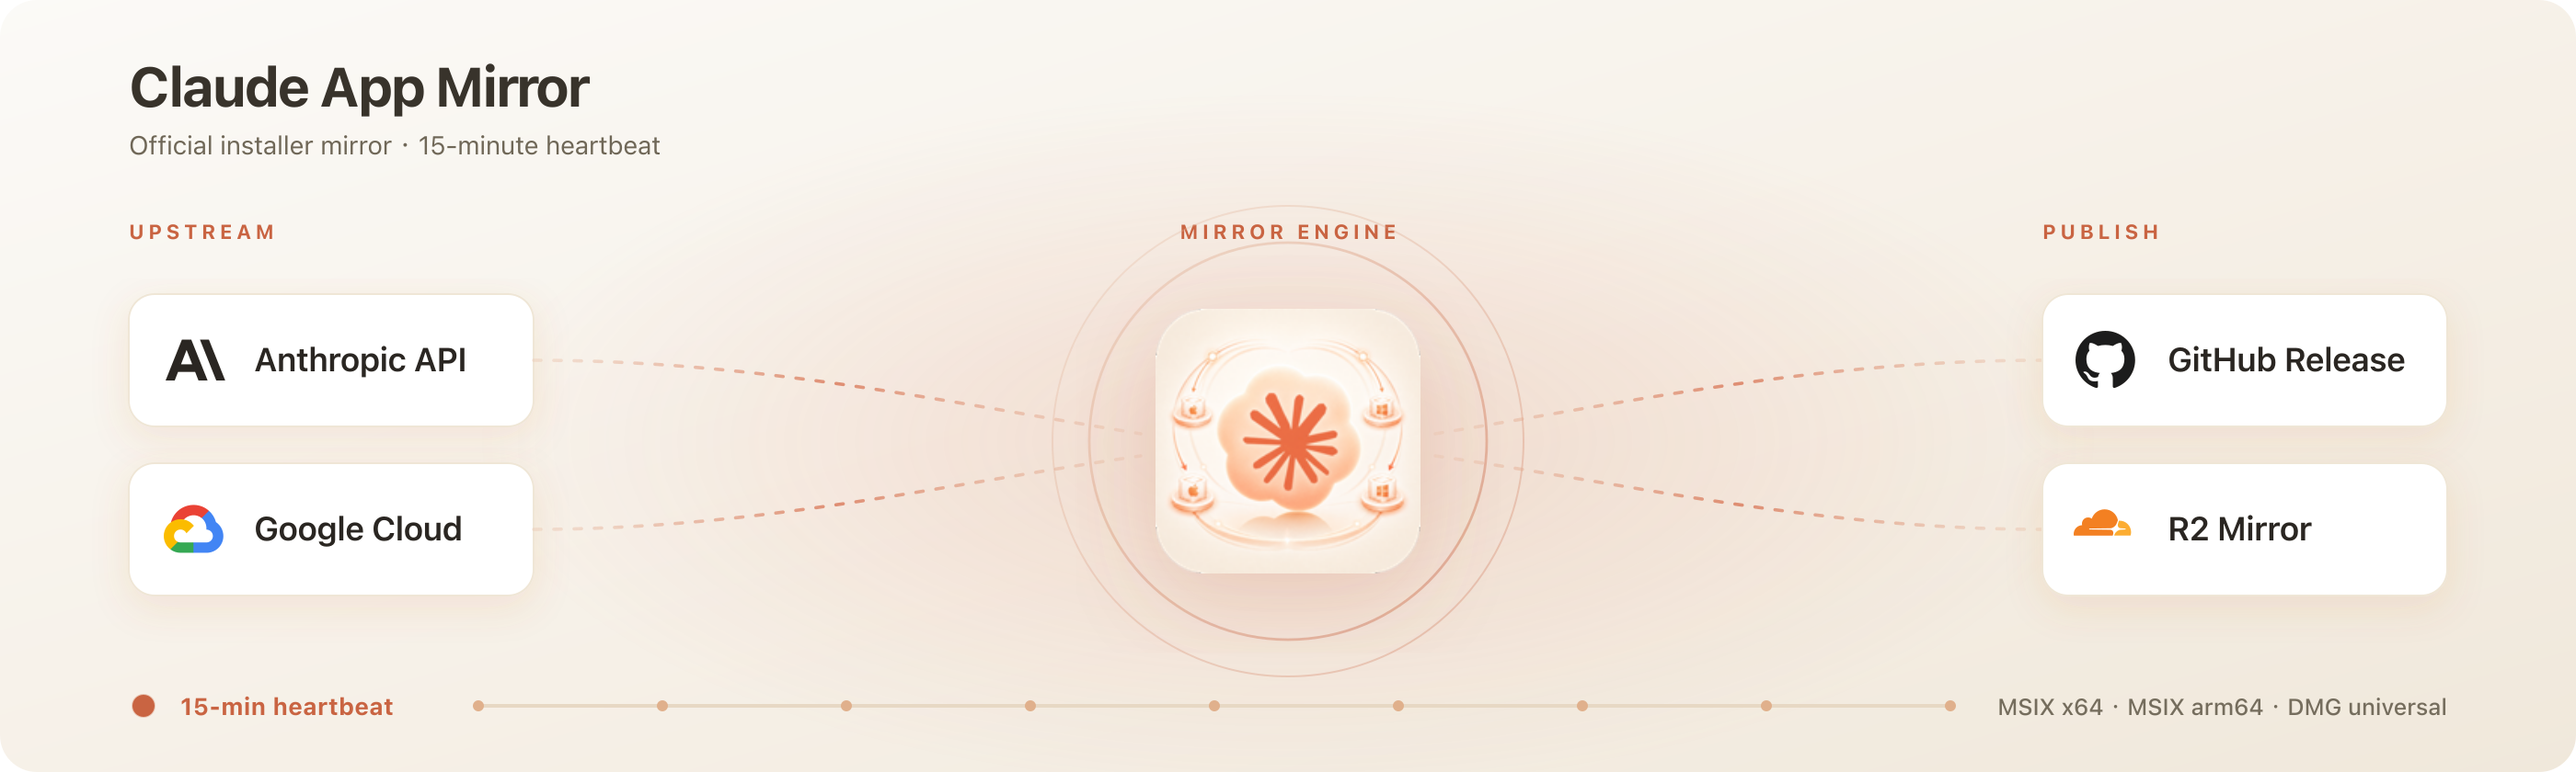
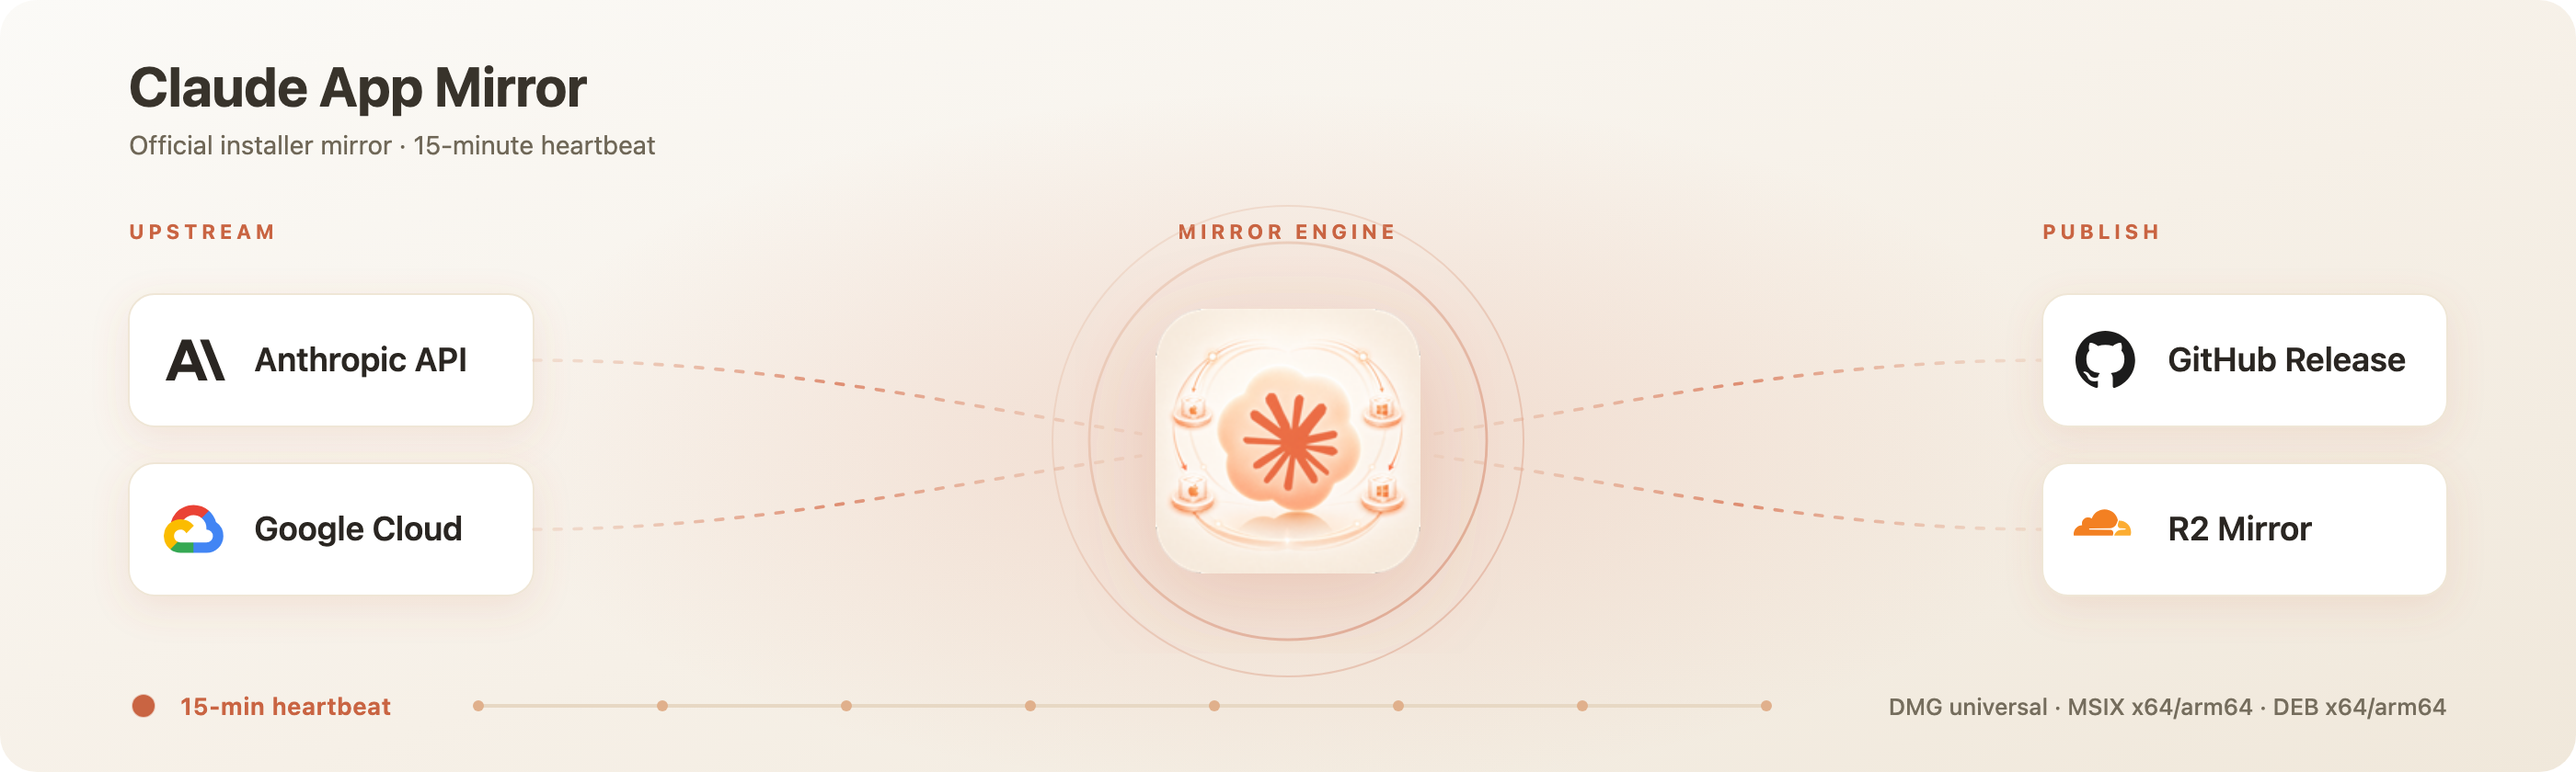
feat: mirror Linux deb installers (x64 and arm64) (#7)
Anthropic now ships an official Linux desktop app (beta) as a .deb for
x64 and arm64. The update API serves it through the same redirect shape
as the other platforms:
api.anthropic.com/api/desktop/linux/<arch>/deb/latest/redirect

- probe the two Linux endpoints and record them under sources.linux in
  the manifest, so they take part in the change fingerprint
- download, checksum and publish Claude-linux-x64.deb and
  Claude-linux-arm64.deb together with the existing assets
- sync latest/linux-x64 and latest/linux-arm64 to R2, and count them in
  the cumulative download badge
- document the Linux packages in the README, release notes and banner

diff --git a/README.md b/README.md
@@ -19,12 +19,13 @@
   <a href="https://github.com/Wangnov/claude-app-mirror/actions/workflows/mirror.yml"><img src="https://img.shields.io/badge/polling-every%2015%20minutes-2ea44f" alt="15 minute polling"></a>
   <a href="https://github.com/Wangnov/claude-app-mirror/releases/latest"><img src="https://img.shields.io/badge/macOS-universal-D97757?logo=apple&logoColor=white" alt="macOS universal"></a>
   <a href="https://github.com/Wangnov/claude-app-mirror/releases/latest"><img src="https://img.shields.io/badge/Windows-x64%20%7C%20arm64%20MSIX-0078d4?logo=windows&logoColor=white" alt="Windows x64 and arm64 MSIX"></a>
+  <a href="https://github.com/Wangnov/claude-app-mirror/releases/latest"><img src="https://img.shields.io/badge/Linux-x64%20%7C%20arm64%20deb-FCC624?logo=linux&logoColor=black" alt="Linux x64 and arm64 deb"></a>
   <a href="https://linux.do/"><img src="https://img.shields.io/badge/LINUX%20DO-community-f0a020?logo=discourse&logoColor=white" alt="LINUX DO community"></a>
   <a href="./LICENSE"><img src="https://img.shields.io/github/license/Wangnov/claude-app-mirror?label=license&color=D97757" alt="License"></a>
 </p>
 
 <p align="center">
-  GitHub Release · Cloudflare R2 short links · macOS DMG · Windows MSIX · checksums · release manifest
+  GitHub Release · Cloudflare R2 short links · macOS DMG · Windows MSIX · Linux deb · checksums · release manifest
 </p>
 
 <p align="center">
@@ -46,6 +47,8 @@
 - macOS 通用包（Apple Silicon + Intel）：`Claude-mac-universal.dmg`
 - Windows x64：`Claude-win-x64.msix`
 - Windows arm64：`Claude-win-arm64.msix`
+- Linux x64：`Claude-linux-x64.deb`
+- Linux arm64：`Claude-linux-arm64.deb`
 - `SHA256SUMS.txt`：本次 Release 内所有资产的校验和
 - `release-manifest.json`：本次探测到的上游指纹（版本、URL、内容哈希、大小）
 
@@ -53,16 +56,18 @@
 
 官网 Windows 下载按钮给的 `ClaudeSetup.exe`（约 7MB）并不是自包含安装包，而是一个 **在线引导器**：运行时它会再去 `downloads.claude.ai`（GCS）下载真正的 ~220MB MSIX 再本地安装，且下载基址写死在已签名二进制里、会校验签名，无法重定向到镜像。所以镜像这个 exe 对国内场景没有意义。本项目改为直接镜像 **自包含、可离线安装** 的 `.msix`（Windows）与 `.dmg`（macOS）。
 
-## 没有 Linux
+## 关于 Linux
 
-Claude 官方没有 Linux 桌面客户端（官方更新接口对 linux 平台直接返回 `400 Platform must be darwin or win32`，官方推荐 Linux 用户使用 Claude Code CLI）。因此本项目不包含 Linux 产物。
+官方 Linux 桌面端目前处于 beta 阶段，提供 `.deb` 安装包（x64 与 arm64），适用于 Ubuntu 22.04 及以上、Debian 12 及以上，本项目一并镜像。官方文档见 [Claude Desktop on Linux (beta)](https://code.claude.com/docs/en/desktop-linux)。
+
+Linux 版不会自更新。官方的升级方式是通过 Anthropic 的 apt 源，这个源同样托管在 `downloads.claude.ai`，国内经常无法访问或被限速，本项目不代理它。按官方文档，安装 `.deb` 时会同时注册这个 apt 源。如果不想在 `apt update` 时看到该源的连接错误，可以在安装前创建 `/etc/default/claude-desktop`，写入一行 `CLAUDE_DESKTOP_ADD_REPO="false"`。之后有新版本时，回到本镜像下载新的 `.deb` 重新安装即可。
 
 ## 版本号说明
 
-macOS 与 Windows 当前来自同一发布、版本号锁步一致（例如 `1.9659.2`）。Release tag 形如：
+macOS、Windows 与 Linux 当前来自同一发布、版本号锁步一致（例如 `2.9939.4`）。Release tag 形如：
 
 ```text
-claude-app-v1.9659.2
+claude-app-v2.9939.4
 ```
 
 版本号取自官方更新接口返回的 `currentRelease`，与安装包路径中的版本段一致。
@@ -74,12 +79,16 @@ claude-app-v1.9659.2
 - macOS：`Claude-mac-universal.dmg`
 - Windows x64：`Claude-win-x64.msix`
 - Windows arm64：`Claude-win-arm64.msix`
+- Linux x64：`Claude-linux-x64.deb`
+- Linux arm64：`Claude-linux-arm64.deb`
 
 也可以直接使用 R2 短链接（面向国内网络，只保留最新版）：
 
 - macOS：[https://claudeapp.agentsmirror.com/latest/mac](https://claudeapp.agentsmirror.com/latest/mac)
 - Windows x64：[https://claudeapp.agentsmirror.com/latest/win-x64](https://claudeapp.agentsmirror.com/latest/win-x64)
 - Windows arm64：[https://claudeapp.agentsmirror.com/latest/win-arm64](https://claudeapp.agentsmirror.com/latest/win-arm64)
+- Linux x64：[https://claudeapp.agentsmirror.com/latest/linux-x64](https://claudeapp.agentsmirror.com/latest/linux-x64)
+- Linux arm64：[https://claudeapp.agentsmirror.com/latest/linux-arm64](https://claudeapp.agentsmirror.com/latest/linux-arm64)
 - 校验和：[https://claudeapp.agentsmirror.com/latest/checksums](https://claudeapp.agentsmirror.com/latest/checksums)
 
 需要旧版本时，请到 [GitHub Releases](https://github.com/Wangnov/claude-app-mirror/releases) 按 tag 查找历史资产。
@@ -88,6 +97,7 @@ claude-app-v1.9659.2
 
 - macOS：打开 `.dmg`，把 Claude 拖进“应用程序”。
 - Windows：双击 `.msix`，由“应用安装程序”完成；或 PowerShell `Add-AppxPackage Claude-win-x64.msix`。MSIX 为已签名包，消费版 Windows 10/11 默认允许；锁策略企业机可能需要管理员放行已签名应用的侧载。
+- Linux（Ubuntu 22.04+ / Debian 12+）：在下载目录执行 `sudo apt install ./Claude-linux-x64.deb`；arm64 设备使用 `Claude-linux-arm64.deb`。
 
 建议同时下载 `SHA256SUMS.txt` 核对文件完整性。
 
@@ -101,16 +111,16 @@ Cloudflare Cron Worker 每 15 分钟触发一次 GitHub Actions 的 `Mirror Clau
 
 每次运行先做轻量探测：
 
-- 对三个 `api.anthropic.com/api/desktop/.../latest/redirect` 端点取 307 跳转目标（含版本号与内容哈希）
+- 对五个 `api.anthropic.com/api/desktop/.../latest/redirect` 端点取 307 跳转目标（含版本号与内容哈希）
 - 对落地的 `downloads.claude.ai` 产物做 HEAD，读取 `Content-Length`、`ETag`、`Last-Modified`
 - 与最新 Release 的 `release-manifest.json` 比对
 
-如果没有变化，workflow 在探测阶段结束，不下载、不发布重复 Release。若发现新版本，则下载三个安装包、生成校验和与 manifest，发布新的 GitHub Release，并同步到 R2。
+如果没有变化，workflow 在探测阶段结束，不下载、不发布重复 Release。若发现新版本，则下载五个安装包、生成校验和与 manifest，发布新的 GitHub Release，并同步到 R2。
 
 ## 上游来源
 
 - 更新/下载入口（稳定、无需鉴权）：`https://api.anthropic.com/api/desktop/<platform>/<arch>/<format>/latest/redirect`
-  - `darwin/universal/dmg`、`win32/x64/msix`、`win32/arm64/msix`
+  - `darwin/universal/dmg`、`win32/x64/msix`、`win32/arm64/msix`、`linux/x64/deb`、`linux/arm64/deb`
 - 实际产物托管：`https://downloads.claude.ai/releases/...`（Google Cloud Storage）
 
 ## 这个仓库不会做什么
@@ -118,7 +128,7 @@ Cloudflare Cron Worker 每 15 分钟触发一次 GitHub Actions 的 `Mirror Clau
 - 不修改 Claude 安装包
 - 不重打包、不破解安装器或授权逻辑
 - 不镜像官网的 `ClaudeSetup.exe` 在线引导器，也不镜像 Squirrel 增量包（`.nupkg` / 自动更新 `.zip`）
-- 不提供 Linux 桌面端（官方不存在）
+- 不代理 Anthropic 的 Linux apt 源，只镜像直链 `.deb` 安装包
 - 不替代 Anthropic 的官方分发渠道
 
 ---
@@ -136,6 +146,8 @@ Sometimes you just want to download the Claude desktop app installer, but the of
 - macOS universal (Apple Silicon + Intel): `Claude-mac-universal.dmg`
 - Windows x64: `Claude-win-x64.msix`
 - Windows arm64: `Claude-win-arm64.msix`
+- Linux x64: `Claude-linux-x64.deb`
+- Linux arm64: `Claude-linux-arm64.deb`
 - `SHA256SUMS.txt` for all assets in the release
 - `release-manifest.json` with the upstream fingerprints (version, URL, content hash, size)
 
@@ -143,16 +155,18 @@ Sometimes you just want to download the Claude desktop app installer, but the of
 
 The official Windows download button serves `ClaudeSetup.exe` (~7MB), which is not a self-contained installer but an **online bootstrapper**: at install time it re-downloads the real ~220MB MSIX from `downloads.claude.ai` (GCS), with the base URL baked into the signed binary and signature-checked, so it cannot be redirected to a mirror. Mirroring that stub is pointless for the slow-link use case. This project mirrors the **self-contained, offline-installable** `.msix` (Windows) and `.dmg` (macOS) instead.
 
-## No Linux
+## Linux
 
-Anthropic ships no official Linux desktop client (the update API returns `400 Platform must be darwin or win32` for linux, and official guidance points Linux users to the Claude Code CLI). So no Linux artifact is included.
+Anthropic's official Linux desktop app is in beta and ships as a `.deb` (x64 and arm64) for Ubuntu 22.04+ and Debian 12+. This project mirrors it too. See the official docs: [Claude Desktop on Linux (beta)](https://code.claude.com/docs/en/desktop-linux).
+
+The Linux app does not update itself. Upgrades normally come from Anthropic's apt repository, which is also hosted on `downloads.claude.ai` and is often unreachable or throttled in mainland China, so this project does not proxy it. According to the official docs, installing the `.deb` also registers that apt repository. To avoid connection errors on `apt update`, create `/etc/default/claude-desktop` with the line `CLAUDE_DESKTOP_ADD_REPO="false"` before installing. When a new version ships, download the new `.deb` from this mirror and install it again.
 
 ## Version numbers
 
-macOS and Windows currently come from the same release and share a lock-step version (for example `1.9659.2`). Release tags look like:
+macOS, Windows and Linux currently come from the same release and share a lock-step version (for example `2.9939.4`). Release tags look like:
 
 ```text
-claude-app-v1.9659.2
+claude-app-v2.9939.4
 ```
 
 The version comes from the official update API's `currentRelease`, matching the version segment in the installer path.
@@ -164,12 +178,16 @@ Open the [latest GitHub Release](https://github.com/Wangnov/claude-app-mirror/re
 - macOS: `Claude-mac-universal.dmg`
 - Windows x64: `Claude-win-x64.msix`
 - Windows arm64: `Claude-win-arm64.msix`
+- Linux x64: `Claude-linux-x64.deb`
+- Linux arm64: `Claude-linux-arm64.deb`
 
 You can also use the R2 short links directly (mainland-China-friendly, latest-only):
 
 - macOS: [https://claudeapp.agentsmirror.com/latest/mac](https://claudeapp.agentsmirror.com/latest/mac)
 - Windows x64: [https://claudeapp.agentsmirror.com/latest/win-x64](https://claudeapp.agentsmirror.com/latest/win-x64)
 - Windows arm64: [https://claudeapp.agentsmirror.com/latest/win-arm64](https://claudeapp.agentsmirror.com/latest/win-arm64)
+- Linux x64: [https://claudeapp.agentsmirror.com/latest/linux-x64](https://claudeapp.agentsmirror.com/latest/linux-x64)
+- Linux arm64: [https://claudeapp.agentsmirror.com/latest/linux-arm64](https://claudeapp.agentsmirror.com/latest/linux-arm64)
 - Checksums: [https://claudeapp.agentsmirror.com/latest/checksums](https://claudeapp.agentsmirror.com/latest/checksums)
 
 For older versions, use [GitHub Releases](https://github.com/Wangnov/claude-app-mirror/releases) and download assets from the matching tag.
@@ -178,6 +196,7 @@ For older versions, use [GitHub Releases](https://github.com/Wangnov/claude-app-
 
 - macOS: open the `.dmg` and drag Claude into Applications.
 - Windows: double-click the `.msix` (App Installer), or run `Add-AppxPackage Claude-win-x64.msix`. The MSIX is signed; consumer Windows 10/11 allows it by default. Locked-down machines may need an admin to allow signed-app sideloading.
+- Linux (Ubuntu 22.04+ / Debian 12+): run `sudo apt install ./Claude-linux-x64.deb` from the download directory; use `Claude-linux-arm64.deb` on arm64.
 
 Download `SHA256SUMS.txt` as well if you want to verify file integrity.
 
@@ -191,16 +210,16 @@ A Cloudflare Cron Worker triggers the `Mirror Claude Desktop Installers` workflo
 
 Each run starts with a lightweight probe:
 
-- Resolve the 307 target of the three `api.anthropic.com/api/desktop/.../latest/redirect` endpoints (the target carries the version and a content hash)
+- Resolve the 307 target of the five `api.anthropic.com/api/desktop/.../latest/redirect` endpoints (the target carries the version and a content hash)
 - HEAD the resulting `downloads.claude.ai` artifacts for `Content-Length`, `ETag`, `Last-Modified`
 - Compare against the latest release's `release-manifest.json`
 
-If nothing changed, the workflow stops after the probe. If a new version appears, it downloads the three installers, writes checksums and a manifest, publishes a new GitHub Release, and syncs to R2.
+If nothing changed, the workflow stops after the probe. If a new version appears, it downloads the five installers, writes checksums and a manifest, publishes a new GitHub Release, and syncs to R2.
 
 ## Upstream sources
 
 - Update/download entry points (stable, no auth): `https://api.anthropic.com/api/desktop/<platform>/<arch>/<format>/latest/redirect`
-  - `darwin/universal/dmg`, `win32/x64/msix`, `win32/arm64/msix`
+  - `darwin/universal/dmg`, `win32/x64/msix`, `win32/arm64/msix`, `linux/x64/deb`, `linux/arm64/deb`
 - Actual artifact hosting: `https://downloads.claude.ai/releases/...` (Google Cloud Storage)
 
 ## Non-goals
@@ -208,5 +227,5 @@ If nothing changed, the workflow stops after the probe. If a new version appears
 - It does not modify Claude installer packages
 - It does not repackage or bypass installer or authorization logic
 - It does not mirror the website `ClaudeSetup.exe` online bootstrapper, nor Squirrel incremental packages (`.nupkg` / auto-update `.zip`)
-- It does not provide a Linux desktop client (none exists officially)
+- It does not proxy Anthropic's Linux apt repository; only the direct `.deb` installers are mirrored
 - It is not a replacement for Anthropic's official distribution channels
